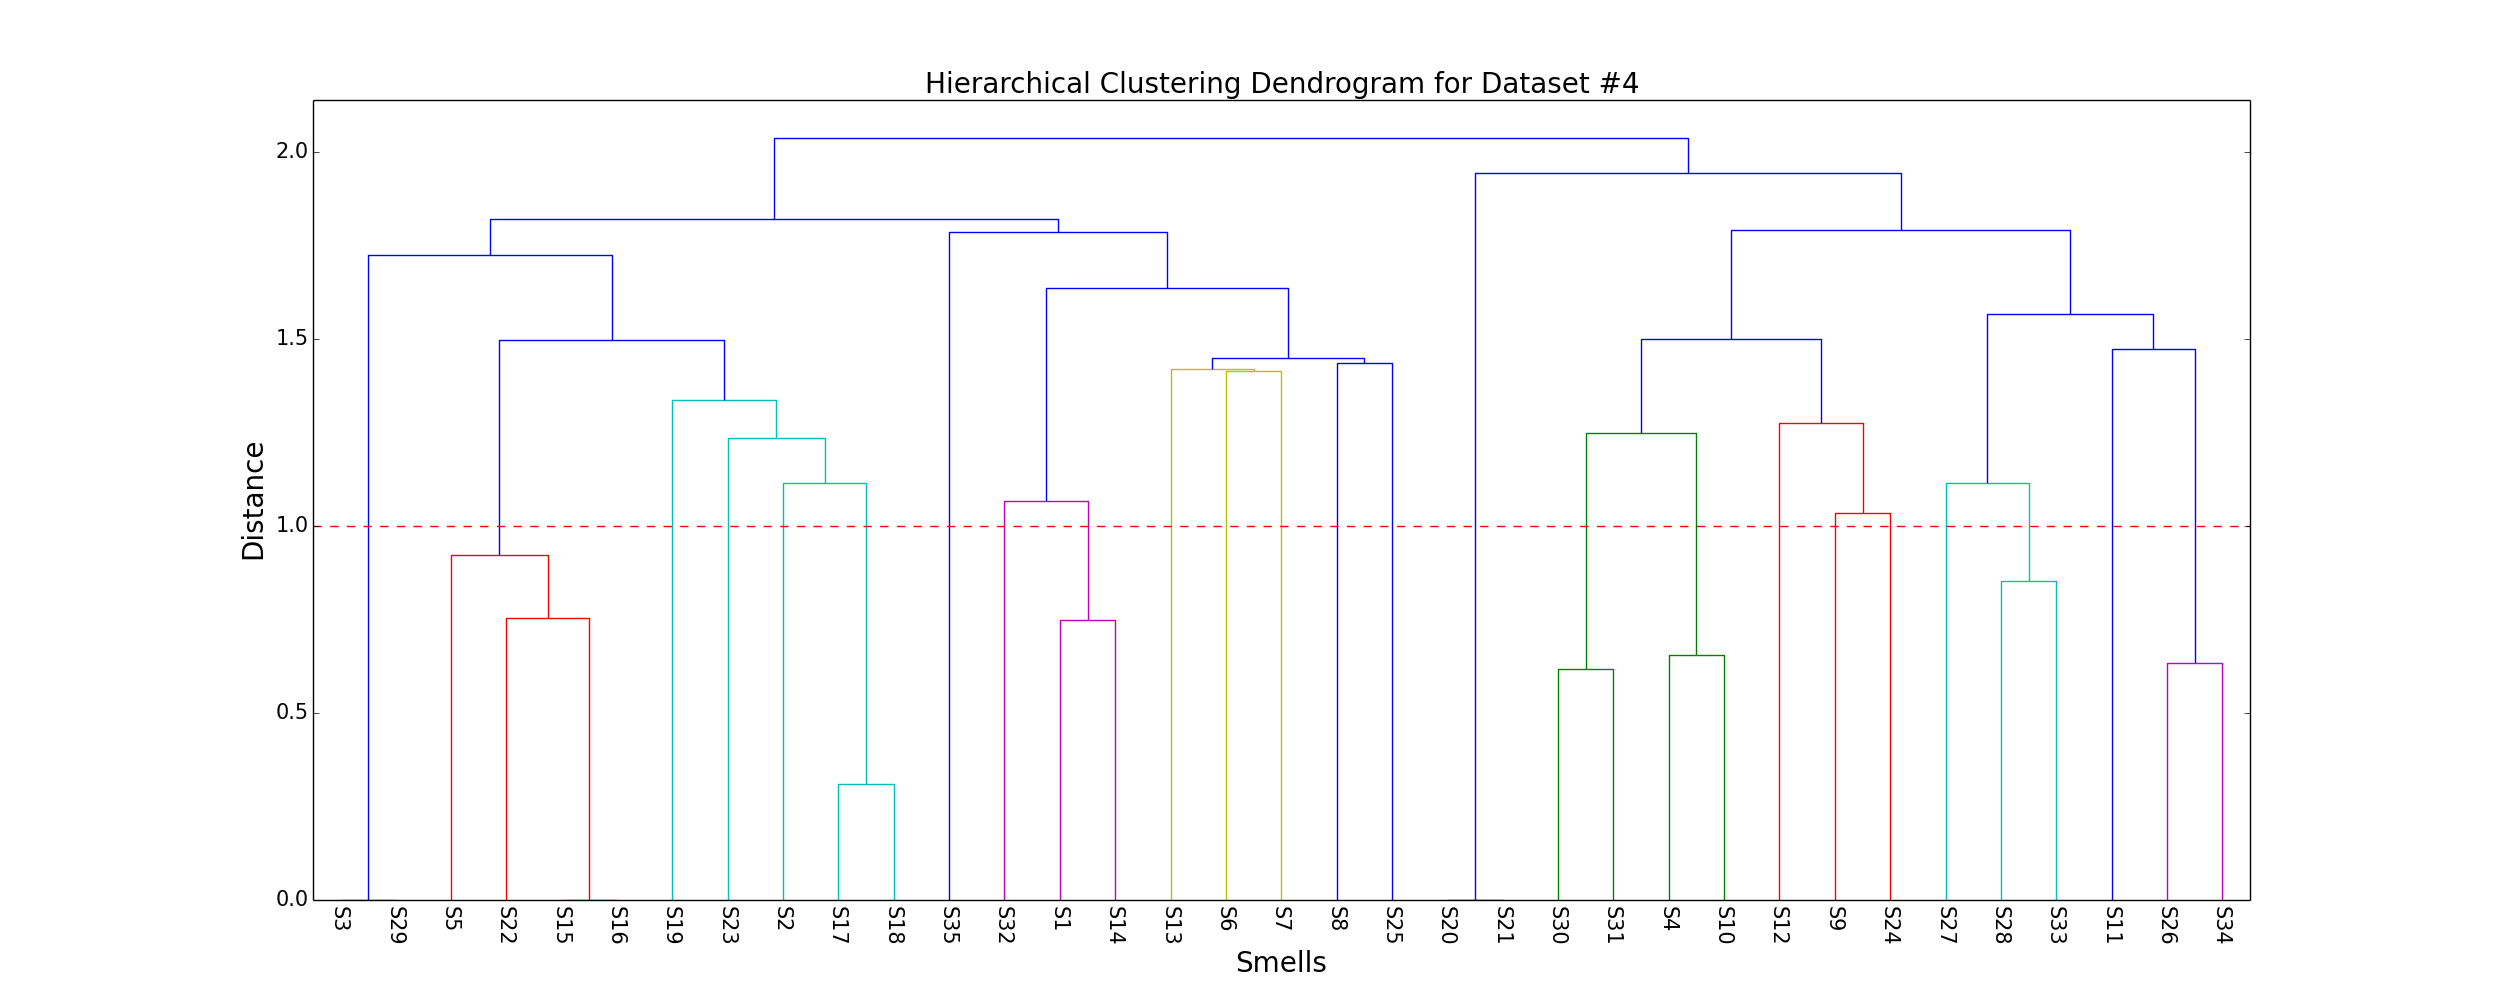
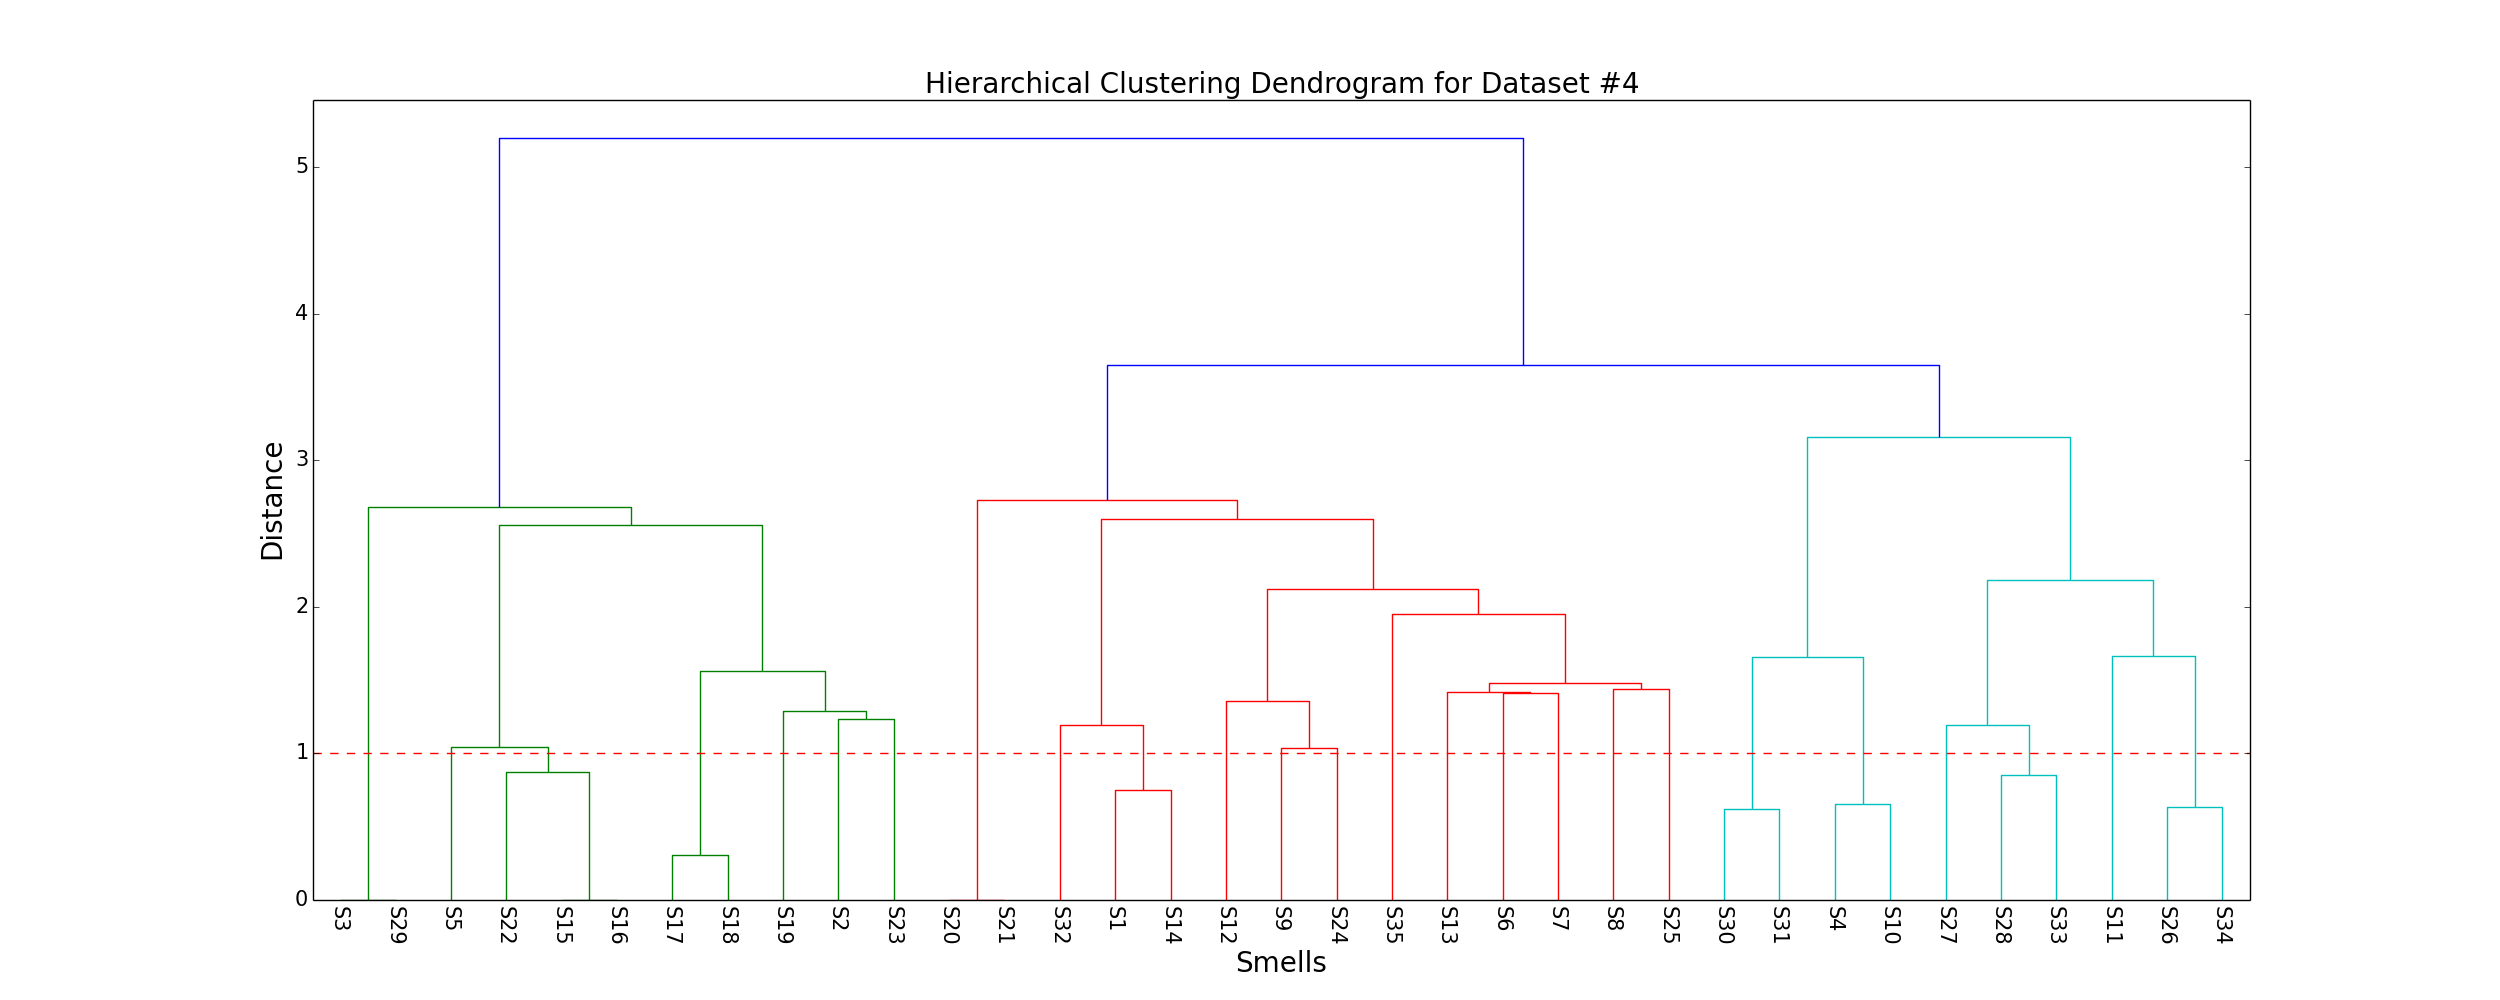
new data visualization code

diff --git a/graph.py b/graph.py
@@ -57,9 +57,11 @@ while n <= numFiles:
     
     nodes = []
     i = 0
+    txt = []
     while i < (len(col_names)-5):
         string = 'S' + str(i+1) 
         nodes.append([string, X2d[i][0], X2d[i][1], connected[i]])
+        txt.append(string)
         i += 1
 
     # create graph    
@@ -87,7 +89,7 @@ while n <= numFiles:
         edge_y.append(y0)
         edge_y.append(y1)
         edge_y.append(None)
-
+        
     edge_trace = go.Scatter(
         x=edge_x, y=edge_y,
         line=dict(width=0.5, color='#888'),
@@ -122,13 +124,13 @@ while n <= numFiles:
                 titleside='right'
             ),
             line_width=2),
-        hoverinfo='text')    
+        hoverinfo='text')   
         
     node_adjacencies = []
     node_text = []
     for node, adjacencies in enumerate(G.adjacency()):
         node_adjacencies.append(len(adjacencies[1]))
-        node_text.append(' S' + str(node) + '  # of connections: ' + str(len(adjacencies[1])))
+        node_text.append('# of connections: ' + str(len(adjacencies[1])))
 
     node_trace.marker.color = node_adjacencies
     node_trace.text = node_text
@@ -146,6 +148,28 @@ while n <= numFiles:
     
     fig.update_traces(textposition='top center')
     
+    i = 0
+    while i < len(nodes):
+        fig.add_annotation(
+            go.layout.Annotation(
+                    x=nodes[i][1],
+                    y=nodes[i][2],
+                    text=nodes[i][0])
+        )
+        
+        i += 1
+        
+    fig.update_annotations(dict(
+        xref="x",
+        yref="y",
+        showarrow=True,
+        arrowhead=False,
+        ax=0,
+        ay=-40
+    )) 
+       
+    fig.update_layout(showlegend=False)
     fig.show()
+    
     n += 1        
     

diff --git a/hierarchicalClustering.py b/hierarchicalClustering.py
@@ -35,7 +35,7 @@ while n <= numFiles:
     
     corr = correlations
 
-    Z = linkage(corr, 'average')
+    Z = linkage(corr, 'ward')
     plt.figure(figsize=(25, 10))
     labelsize=20
     ticksize=15
